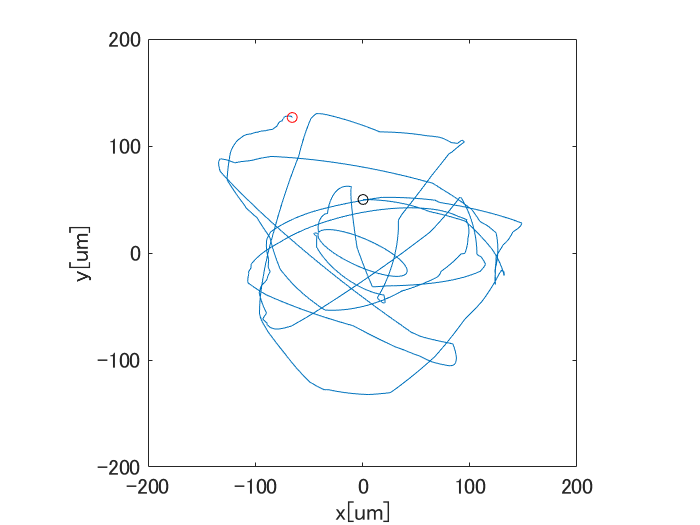
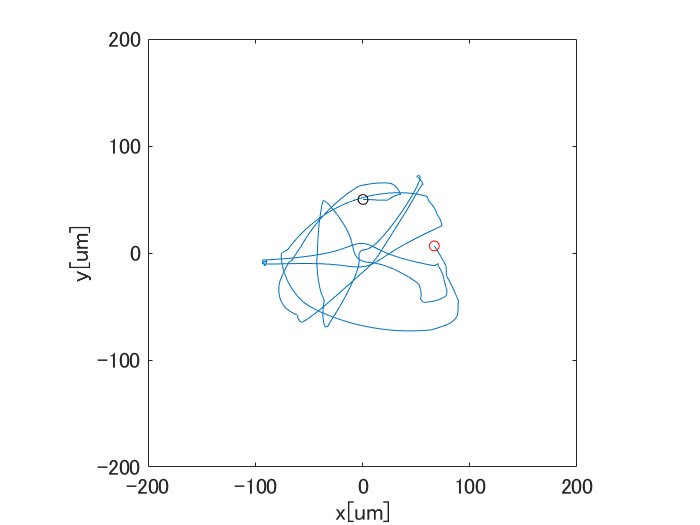
debug 角運動量の修正 0716

diff --git a/atomic_vortex/DressedAtom.cpp b/atomic_vortex/DressedAtom.cpp
@@ -75,8 +75,8 @@ void DressedAtom::process_diss(atom* obj)
 // motion within a time step dt
 void DressedAtom::step_motion(atom* obj)
 {
-	obj->r.x += ( 1.0/2.0 * (obj->v.vx + obj->v_pre.vx) - obj->l_rot * sin(obj->radius) / (obj->radius * mass) ) * dt + 1.0/2.0 * obj->acc_x * dt * dt;
-	obj->r.y += ( 1.0/2.0 * (obj->v.vy + obj->v_pre.vy) + obj->l_rot * cos(obj->radius) / (obj->radius * mass) ) * dt + 1.0/2.0 * obj->acc_y * dt * dt;
+	obj->r.x += ( 1.0/2.0 * (obj->v.vx + obj->v_pre.vx) - obj->l_rot * sin(obj->phi) / (obj->radius * mass) ) * dt + 1.0/2.0 * obj->acc_x * dt * dt;
+	obj->r.y += ( 1.0/2.0 * (obj->v.vy + obj->v_pre.vy) + obj->l_rot * cos(obj->phi) / (obj->radius * mass) ) * dt + 1.0/2.0 * obj->acc_y * dt * dt;
 	obj->r.z += 1.0/2.0 * (obj->v.vz + obj->v_pre.vz) * dt - 1.0/2.0 * G * dt * dt;
 
 	obj->v.vx += obj->acc_x * dt;

diff --git a/atomic_vortex/atom.cpp b/atomic_vortex/atom.cpp
@@ -11,7 +11,7 @@ atom::atom() {
 	radius = sqrt(r.x * r.x + r.y * r.y);
 	phi = (r.x == 0.0 && r.y == 0.0) ? 0.0 : atan2(r.y, r.x);
 
-	acc_x = 0.0, acc_y = 0.0;
+	l_rot = 0.0, acc_x = 0.0, acc_y = 0.0;
 	s = state::d1;
 }
 
@@ -23,7 +23,8 @@ atom::atom(position r0, velocity v0, state s0) {
 	v_pre= v;
 	radius = sqrt(r.x * r.x + r.y * r.y);
 	phi = (r.x == 0.0 && r.y == 0.0) ? 0.0 : atan2(r.y, r.x);
-	acc_x = 0.0, acc_y = 0.0;
+
+	l_rot = 0.0, acc_x = 0.0, acc_y = 0.0;
 }
 
 

diff --git a/atomic_vortex/atom.h b/atomic_vortex/atom.h
@@ -13,7 +13,7 @@ public:
 	double radius;
 	double phi;
 	double acc_x, acc_y;
-	double l_rot = 0.0; // 重心運動の角運動量 [kg*m^2/s]
+	double l_rot;		// 重心運動の角運動量 [kg*m^2/s]
 	double E_kin = 0.0;
 
 	atom();
